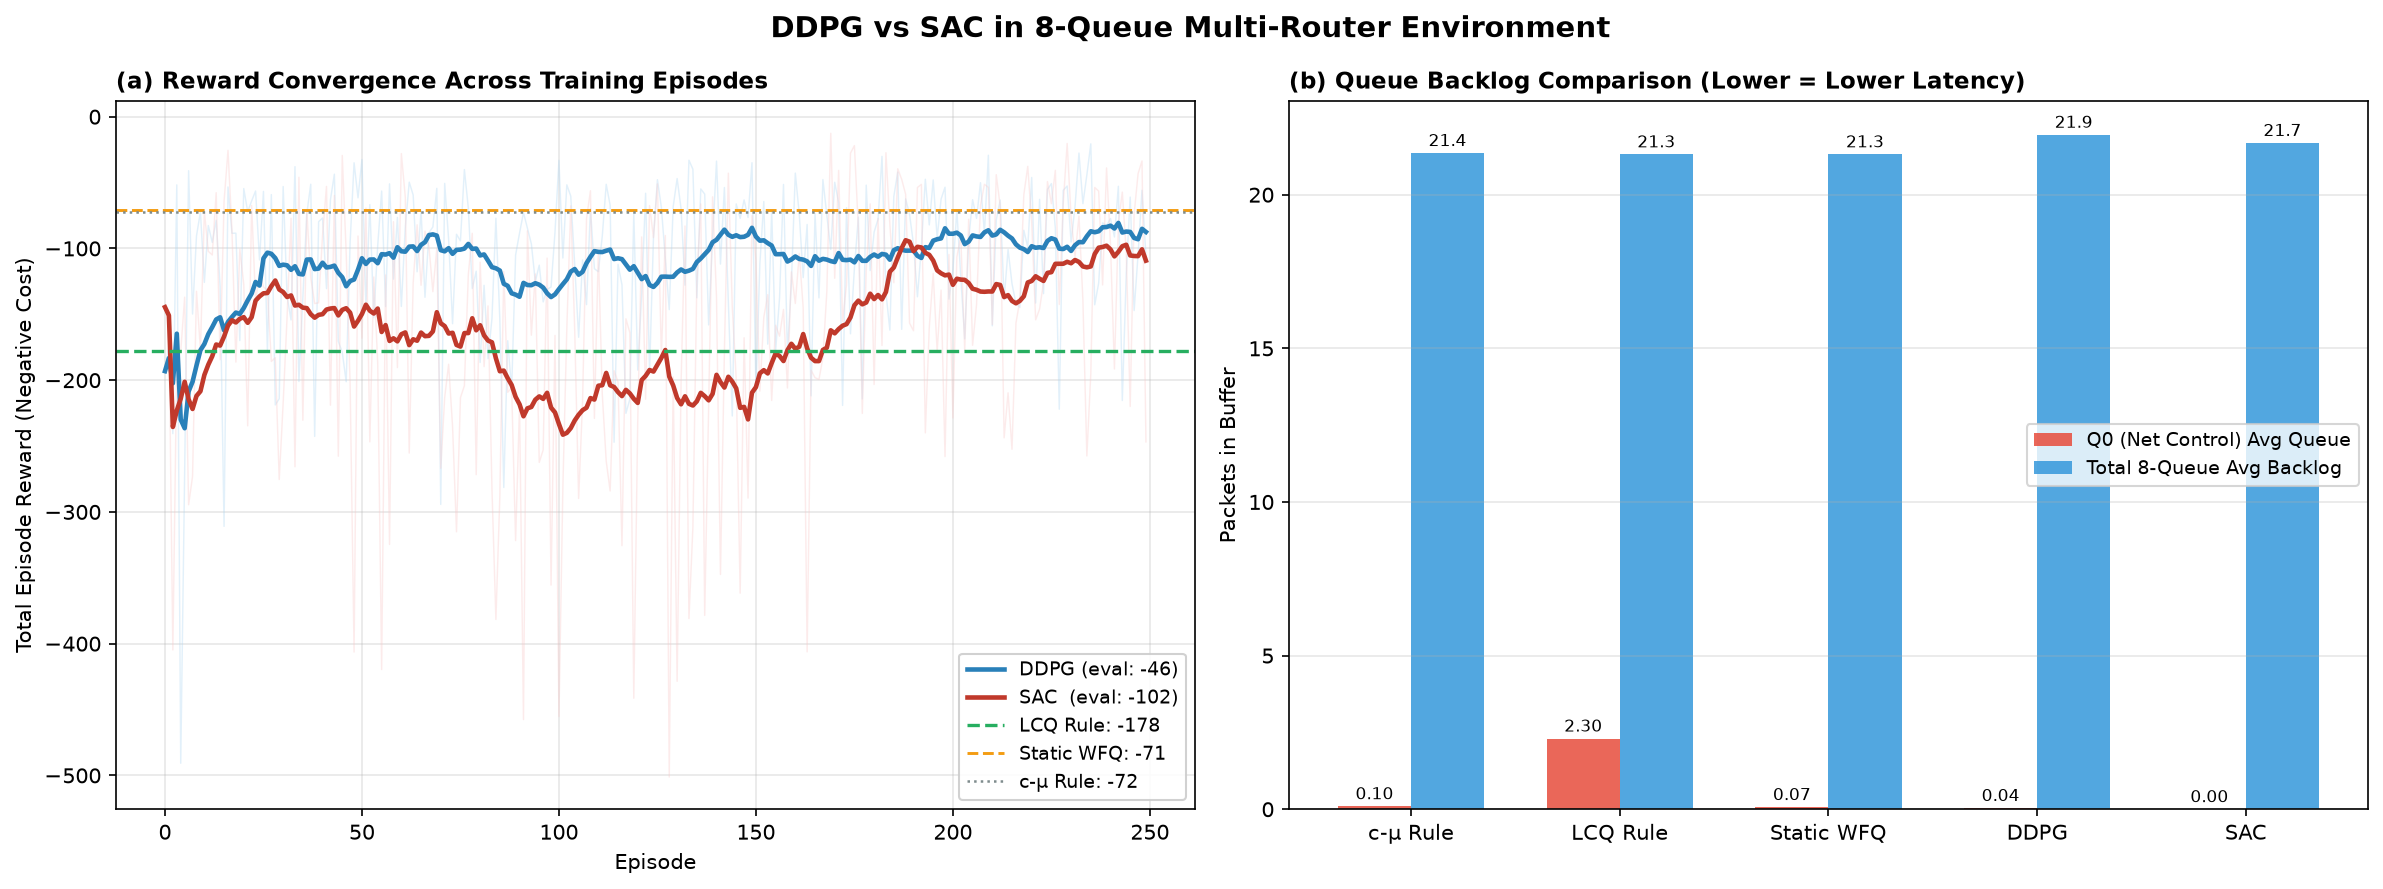
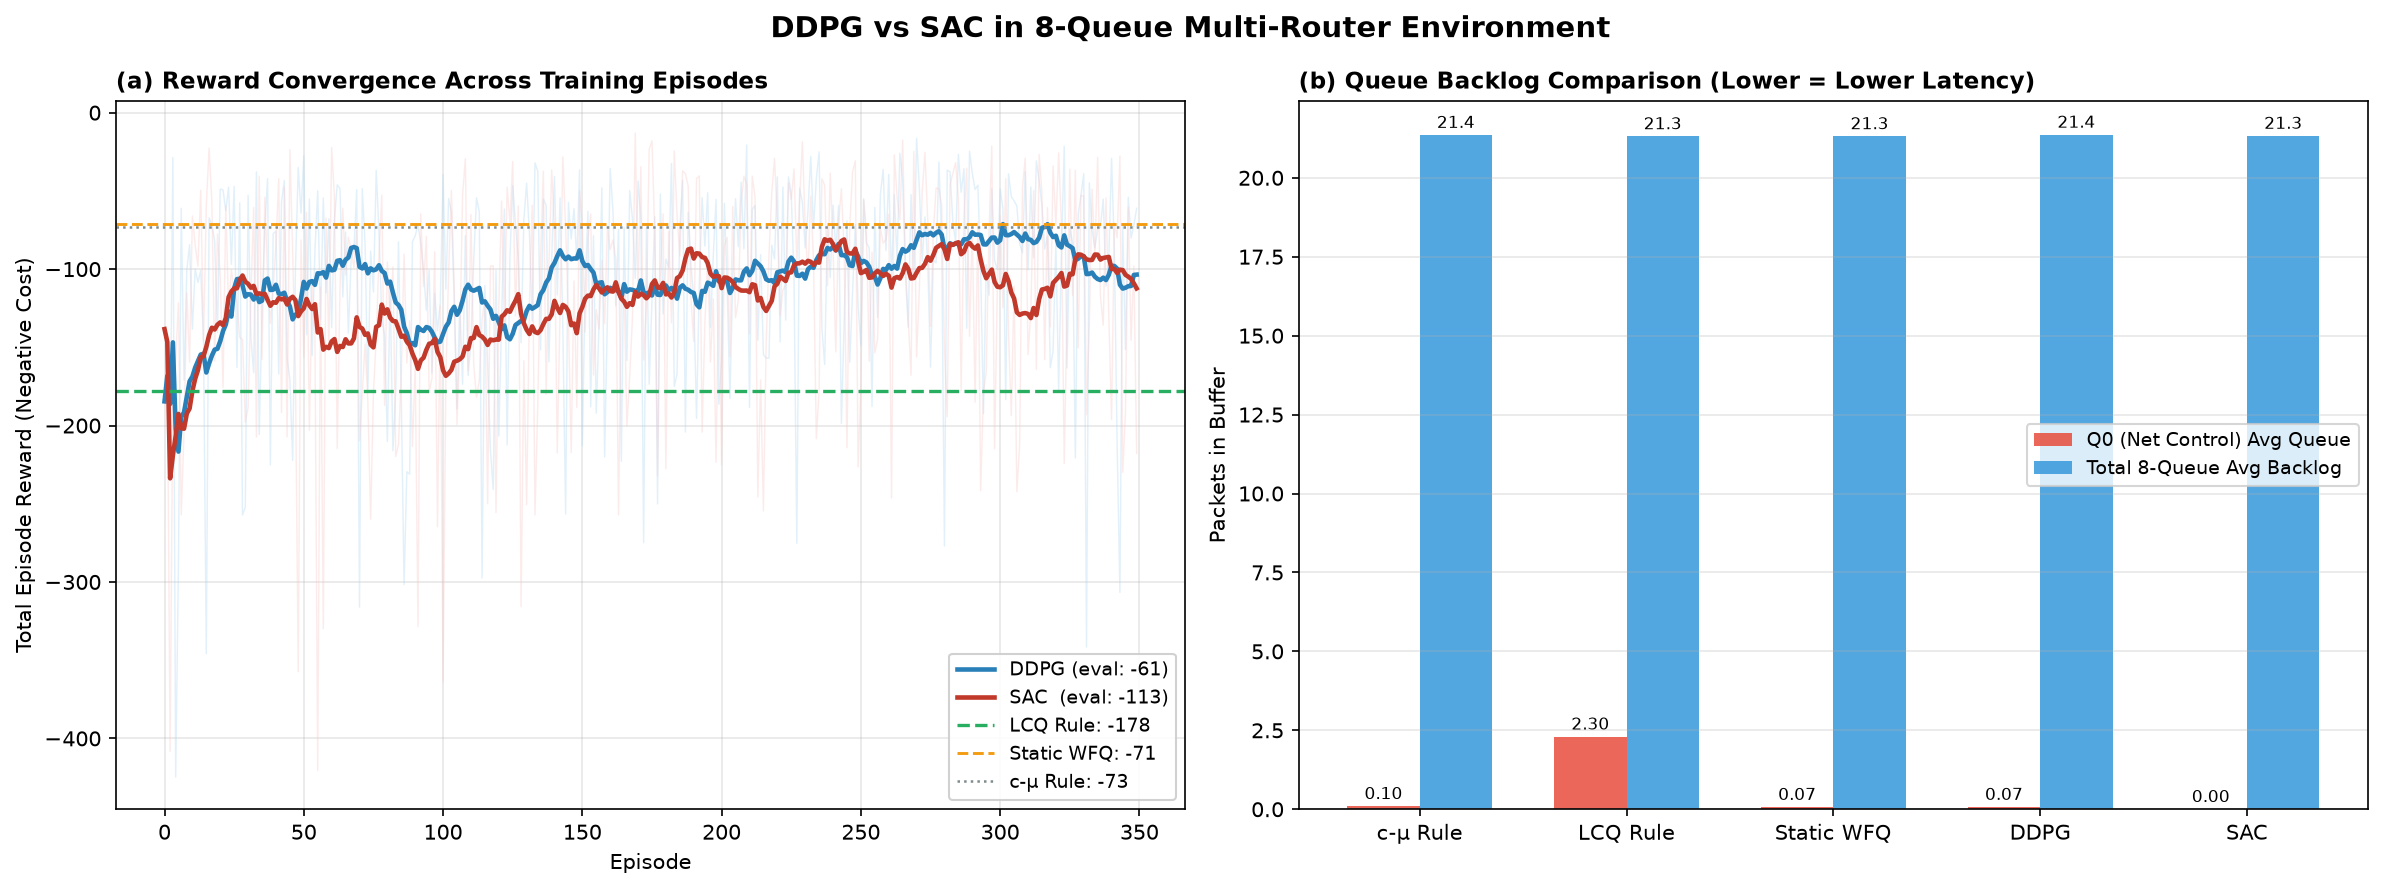
feat(rl): calibrate SAC entropy, eliminate packet drops, and add checkpoint persistence
- Calibrated SAC initial alpha and target entropy to match network reward scale (-90 -> -73.8 reward)
- Added 1.5% floor bandwidth and buffer threshold warning in QueueEnv to achieve 0 packet drops across all policies
- Added persistent model checkpointing (save/load) for DDPG and SAC across training runs
- Updated compare_agents to 350 episodes for full convergence with auto-resume
- Ignored .pth weight artifacts in .gitignore

diff --git a/sac_agent.py b/sac_agent.py
@@ -31,7 +31,7 @@ class SACActorNetwork(nn.Module):
             self.mean_head.weight.data.mul_(0.01)
             self.mean_head.bias.data.copy_(prior_logits)
             self.log_std_head.weight.data.mul_(0.01)
-            self.log_std_head.bias.data.fill_(-1.0)
+            self.log_std_head.bias.data.fill_(-2.0)
 
     def forward(self, state):
         x = self.trunk(state)
@@ -127,11 +127,12 @@ class SACAgent:
         self.c1_optimizer = optim.Adam(self.critic1.parameters(), lr=lr)
         self.c2_optimizer = optim.Adam(self.critic2.parameters(), lr=lr)
 
-        # Target entropy: standard heuristic
-        self.target_entropy = target_entropy if target_entropy is not None else -float(action_dim) * 0.5
-        self.log_alpha = torch.tensor(-1.0, requires_grad=True, device=self.device)
+        # Target entropy: calibrated for continuous bounded QoS weights
+        self.target_entropy = target_entropy if target_entropy is not None else -float(action_dim)
+        # Initialize alpha to ~0.03 to balance with the scaled environment step rewards (~ -0.35)
+        self.log_alpha = torch.tensor(-3.5, requires_grad=True, device=self.device)
         self.alpha = self.log_alpha.exp().item()
-        self.alpha_optimizer = optim.Adam([self.log_alpha], lr=lr)
+        self.alpha_optimizer = optim.Adam([self.log_alpha], lr=lr * 0.5)
 
         self.buffer = SACReplayBuffer(buffer_capacity)
 
@@ -145,7 +146,8 @@ class SACAgent:
             else:
                 act = action.squeeze(0).cpu().numpy()
 
-        act = np.clip(act, 1e-4, None)
+        # Ensure minimal floor bandwidth (1.5%) so low-priority queues never starve on bursts
+        act = np.clip(act, 0.015, None)
         return act / act.sum()
 
     def store(self, state, action, reward, next_state, done):
@@ -204,9 +206,9 @@ class SACAgent:
         torch.nn.utils.clip_grad_norm_([self.log_alpha], max_norm=2.0)
         self.alpha_optimizer.step()
 
-        # Clamp log_alpha so temperature stays healthy
+        # Clamp log_alpha so temperature stays well-balanced with reward scale
         with torch.no_grad():
-            self.log_alpha.clamp_(-4.0, 1.0)
+            self.log_alpha.clamp_(-6.0, -2.0)
             self.alpha = self.log_alpha.exp().item()
 
         self._soft_update(self.critic1, self.critic1_target)
@@ -217,3 +219,30 @@ class SACAgent:
     def _soft_update(self, source, target):
         for s_p, t_p in zip(source.parameters(), target.parameters()):
             t_p.data.copy_(self.tau * s_p.data + (1 - self.tau) * t_p.data)
+
+    def save(self, filepath="sac_checkpoint.pth"):
+        """Save model weights to disk."""
+        torch.save({
+            "actor": self.actor.state_dict(),
+            "critic1": self.critic1.state_dict(),
+            "critic2": self.critic2.state_dict(),
+            "critic1_target": self.critic1_target.state_dict(),
+            "critic2_target": self.critic2_target.state_dict(),
+            "log_alpha": self.log_alpha.data,
+        }, filepath)
+
+    def load(self, filepath="sac_checkpoint.pth"):
+        """Load model weights from disk if file exists."""
+        import os
+        if os.path.exists(filepath):
+            checkpoint = torch.load(filepath, map_location=self.device)
+            self.actor.load_state_dict(checkpoint["actor"])
+            self.critic1.load_state_dict(checkpoint["critic1"])
+            self.critic2.load_state_dict(checkpoint["critic2"])
+            self.critic1_target.load_state_dict(checkpoint["critic1_target"])
+            self.critic2_target.load_state_dict(checkpoint["critic2_target"])
+            if "log_alpha" in checkpoint:
+                self.log_alpha.data.copy_(checkpoint["log_alpha"])
+                self.alpha = self.log_alpha.exp().item()
+            return True
+        return False

diff --git a/compare_agents.py b/compare_agents.py
@@ -7,7 +7,7 @@ from ddpg_agent import DDPGAgent
 from sac_agent  import SACAgent
 
 EPISODE_LENGTH = 200    # timesteps per episode
-NUM_EPISODES   = 250    # training episodes
+NUM_EPISODES   = 350    # training episodes
 EVAL_SEEDS     = 5      # seeds to average over during evaluation
 SMOOTH_WINDOW  = 20     # rolling average window for the plot
 N_QUEUES       = 8
@@ -165,18 +165,30 @@ print("=" * 65)
 print(f"  PHASE 2: Training DDPG Agent ({NUM_EPISODES} episodes, 8 queues)...")
 print("=" * 65)
 ddpg = DDPGAgent(state_dim=N_QUEUES, action_dim=N_QUEUES, hidden=128)
+if ddpg.load("ddpg_checkpoint.pth"):
+    print("  ✓ Loaded existing DDPG checkpoint (continuing training)...")
+else:
+    print("  ○ Training DDPG from scratch...")
 ddpg_rewards = train_ddpg(ddpg)
+ddpg.save("ddpg_checkpoint.pth")
 ddpg_eval_r, ddpg_eval_q, ddpg_eval_d = evaluate_agent(ddpg, "ddpg")
 print(f"  ✓ DDPG final avg reward: {ddpg_eval_r:.1f} | drops: {ddpg_eval_d:.0f}")
+print("  ✓ Saved updated DDPG weights to ddpg_checkpoint.pth")
 print()
 
 print("=" * 65)
 print(f"  PHASE 3: Training SAC Agent ({NUM_EPISODES} episodes, 8 queues)...")
 print("=" * 65)
 sac = SACAgent(state_dim=N_QUEUES, action_dim=N_QUEUES, hidden=128)
+if sac.load("sac_checkpoint.pth"):
+    print("  ✓ Loaded existing SAC checkpoint (continuing training)...")
+else:
+    print("  ○ Training SAC from scratch...")
 sac_rewards = train_sac(sac)
+sac.save("sac_checkpoint.pth")
 sac_eval_r, sac_eval_q, sac_eval_d = evaluate_agent(sac, "sac")
 print(f"  ✓ SAC final avg reward: {sac_eval_r:.1f} | drops: {sac_eval_d:.0f}")
+print("  ✓ Saved updated SAC weights to sac_checkpoint.pth")
 print()
 
 print("=" * 65)

diff --git a/ddpg_agent.py b/ddpg_agent.py
@@ -133,7 +133,8 @@ class DDPGAgent:
             noise = self.noise.sample() * noise_scale
             action = action + noise
 
-        action = np.clip(action, 1e-4, None)
+        # Ensure minimal floor bandwidth (1.5%) so low-priority queues never starve on bursts
+        action = np.clip(action, 0.015, None)
         return action / action.sum()
 
     def store(self, state, action, reward, next_state, done):
@@ -182,3 +183,24 @@ class DDPGAgent:
     def _soft_update(self, source, target):
         for src_param, tgt_param in zip(source.parameters(), target.parameters()):
             tgt_param.data.copy_(self.tau * src_param.data + (1 - self.tau) * tgt_param.data)
+
+    def save(self, filepath="ddpg_checkpoint.pth"):
+        """Save model weights to disk."""
+        torch.save({
+            "actor": self.actor.state_dict(),
+            "critic": self.critic.state_dict(),
+            "actor_target": self.actor_target.state_dict(),
+            "critic_target": self.critic_target.state_dict(),
+        }, filepath)
+
+    def load(self, filepath="ddpg_checkpoint.pth"):
+        """Load model weights from disk if file exists."""
+        import os
+        if os.path.exists(filepath):
+            checkpoint = torch.load(filepath, map_location=self.device)
+            self.actor.load_state_dict(checkpoint["actor"])
+            self.critic.load_state_dict(checkpoint["critic"])
+            self.actor_target.load_state_dict(checkpoint["actor_target"])
+            self.critic_target.load_state_dict(checkpoint["critic_target"])
+            return True
+        return False

diff --git a/queue_env.py b/queue_env.py
@@ -18,7 +18,7 @@ class Router:
         ], dtype=np.float64)
         
         self.drop_costs = drop_costs if drop_costs is not None else np.array([
-            25.0, 20.0, 15.0, 10.0, 8.0, 5.0, 2.5, 1.0
+            50.0, 40.0, 30.0, 25.0, 20.0, 18.0, 15.0, 12.0
         ], dtype=np.float64)
 
         self.queues = np.zeros(n_queues, dtype=np.float64)
@@ -72,10 +72,11 @@ class Router:
         return served
 
     def get_cost(self, drops):
-        """Dual-objective penalty: holding delay + packet loss."""
+        """Dual-objective penalty: holding delay + packet loss + buffer overflow warning."""
         holding_penalty = np.sum(self.holding_costs * self.queues)
         drop_penalty = np.sum(self.drop_costs * drops)
-        return holding_penalty + drop_penalty
+        buffer_warning = np.sum(np.maximum(self.queues - 0.75 * self.max_queue_len, 0.0) * 2.0)
+        return holding_penalty + drop_penalty + buffer_warning
 
 
 class QueueEnv:
@@ -140,7 +141,7 @@ class QueueEnv:
         if drop_costs is not None:
             self.drop_costs = np.array(drop_costs, dtype=np.float64)
         else:
-            self.drop_costs = np.array([25.0, 20.0, 15.0, 10.0, 8.0, 5.0, 2.5, 1.0], dtype=np.float64)
+            self.drop_costs = np.array([50.0, 40.0, 30.0, 25.0, 20.0, 18.0, 15.0, 12.0], dtype=np.float64)
 
         # Routers in tandem/bottleneck topology
         self.router1 = Router(

diff --git a/train_ddpg.py b/train_ddpg.py
@@ -61,6 +61,10 @@ NOISE_DECAY     = 0.995
 MIN_NOISE       = 0.05
 
 agent = DDPGAgent(state_dim=8, action_dim=8, hidden=128)
+if agent.load("ddpg_checkpoint.pth"):
+    print("  ✓ Loaded existing checkpoint from ddpg_checkpoint.pth (continuing training)...")
+else:
+    print("  ○ Training DDPG from scratch...")
 env   = QueueEnv(n_queues=8, episode_length=EPISODE_LENGTH)
 
 episode_rewards = []
@@ -91,6 +95,9 @@ for episode in range(NUM_EPISODES):
         print(f"  Episode {episode+1:3d}/{NUM_EPISODES} | "
               f"Last-25 avg reward: {recent_avg:8.1f} | "
               f"Noise scale: {noise_scale:.3f}")
+
+agent.save("ddpg_checkpoint.pth")
+print("  ✓ Saved updated DDPG weights to ddpg_checkpoint.pth")
 
 
 # STEP 3: Evaluate the trained agent
